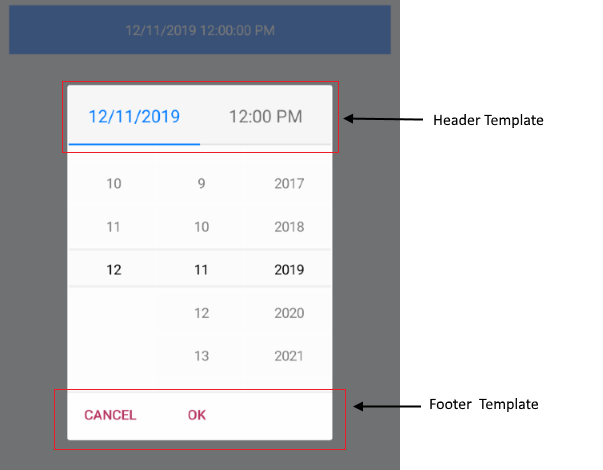
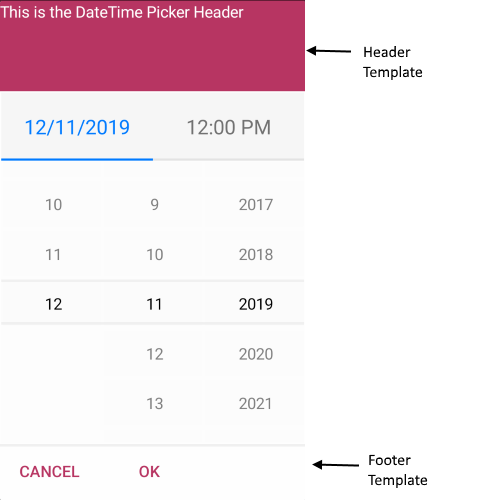
modifications in datetime picker articles

diff --git a/controls/datetimepicker/datetime-picker-templates.md b/controls/datetimepicker/datetime-picker-templates.md
@@ -13,6 +13,36 @@ If the default templates of the control do not suit your needs, you can easily d
 * **DisplayTemplate**(*ControlTemplate*): Defines the template visualized when the picked date/time is displayed.
 
 * **HeaderTemplate**(*ControlTemplate*): Defines what will be displayed inside the dialog(popup) header.
+
+<snippet id='datetimepicker-header-template' />
+
+>important Note that by default the visibility of the dialog header is false. In order to visualize the header you will need to set **IsHeaderVisible = "true"**. Also note that instead of template binding you can bind a property from the viewmodel, or use the Header property:
+
+<snippet id='datetimepicker-header-template' />
+
+```XAML
+<telerikInput:RadDateTimePicker StartDate="2019,12,11" 
+                            	EndDate="2020,02,14">
+    <telerikInput:RadDateTimePicker.SelectorSettings>
+        <telerikInput:PickerPopupSelectorSettings HeaderTemplate="{StaticResource headerTemplate}" 
+                                                  IsHeaderVisible="True"
+                                                  Header="This is the Header Template" />
+    </telerikInput:RadDateTimePicker.SelectorSettings>
+</telerikInput:RadDateTimePicker>
+```
+
+or
+
+```XAML
+<telerikInput:RadDateTimePicker StartDate="2019,12,11" 
+                            	EndDate="2020,02,14">
+    <telerikInput:RadDateTimePicker.SelectorSettings>
+        <telerikInput:PickerPopupSelectorSettings IsHeaderVisible="True"
+                                                  Header="{Binding Header}" />
+    </telerikInput:RadDateTimePicker.SelectorSettings>
+</telerikInput:RadDateTimePicker>
+```
+
 * **FooterTemplate**(*ControlTemplate*): Defines what will be displayed inside the dialog(popup) footer.
 
 ## Example

diff --git a/controls/listpicker/list-picker-styling.md b/controls/listpicker/list-picker-styling.md
@@ -26,7 +26,7 @@ The SelectorSetting also provides the following properties for popup customizati
 
 * **PopupOutsideBackgroundColor**(*Xamarin.Forms.Color*): Defines the color outside of the popup.
 * **Header**(*object*):
-* **IsHeaderVisible**(*bool*): Defines the visibility of the header. The default value is true.
+* **IsHeaderVisible**(*bool*): Defines the visibility of the header. By default its value is false.
 * **IsFooterVisible**(*bool*): Defines the visibility of the header. The default value is true.
 * **AcceptButtonText**(*string*): Defines the text visualized for the accept button. By default the text is *OK*.
 * **CancelButtonText**(*string*): Defines the text visualized for the cancel button. By default the text is *Cancel*. 

diff --git a/controls/datetimepicker/datetime-picker-styling.md b/controls/datetimepicker/datetime-picker-styling.md
@@ -31,7 +31,7 @@ The SelectorSetting also provides the following properties for popup customizati
 
 * **PopupOutsideBackgroundColor**(*Xamarin.Forms.Color*): Defines the color outside of the popup.
 * **Header**(*object*):
-* **IsHeaderVisible**(*bool*): Defines the visibility of the header. The default value is true.
+* **IsHeaderVisible**(*bool*): Defines the visibility of the header. The default value is false.
 * **IsFooterVisible**(*bool*): Defines the visibility of the header. The default value is true.
 * **AcceptButtonText**(*string*): Defines the text visualized for the accept button. By default the text is *OK*.
 * **CancelButtonText**(*string*): Defines the text visualized for the cancel button. By default the text is *Cancel*. 
